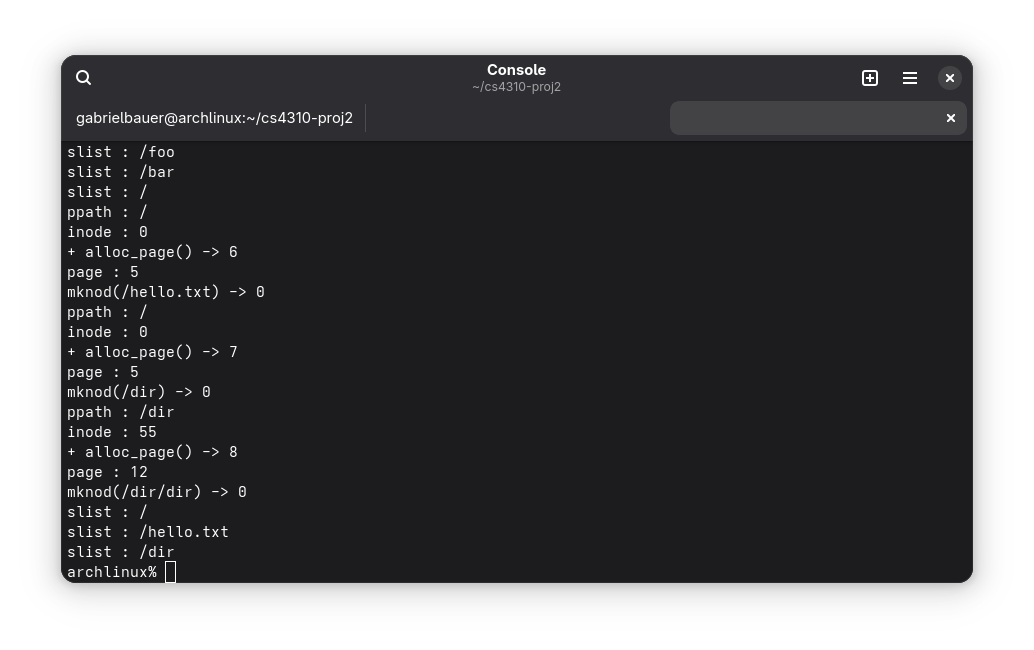
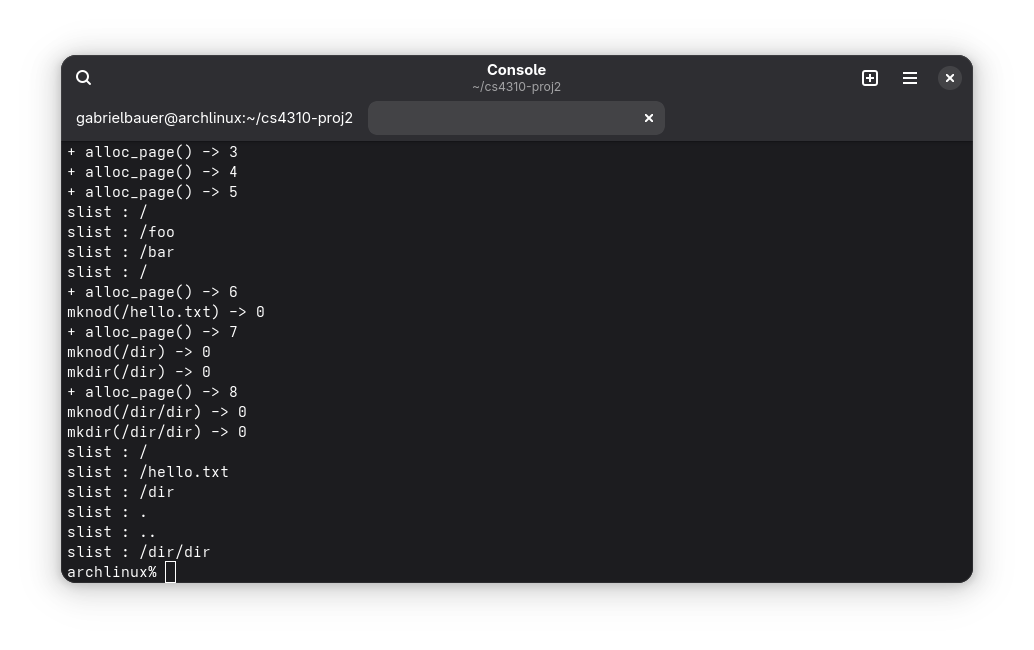
added '.' and '..'...not sure how this will or wont affect the ls function yet...

diff --git a/mfs.c b/mfs.c
@@ -99,7 +99,16 @@ mknod(const char *path, int mode)
 	int inum = alloc_inode(path);
 	inode fn;
 	memcpy((char*)&fn, (char*)get_inode(inum), sizeof(inode));
-	if (mode < 16000) mode = mode | 070000;		// Regular file
+	if (mode < 10000) mode = mode | 070000;		// Regular file
+	else {			// Directory
+		dirent *ptr = (dirent*)pages_get_page(get_inode(inum)->ptrs[0]+5);
+		strcpy(ptr->name, ".");
+		ptr->inum=inum;
+		ptr->next=true;
+		ptr++;
+		strcpy(ptr->name, "..");
+		ptr->inum=dd->inum;
+	}
 	fn.mode=mode;
 	memcpy((char*)get_inode(inum), (char*)&fn, sizeof(inode));
 	
